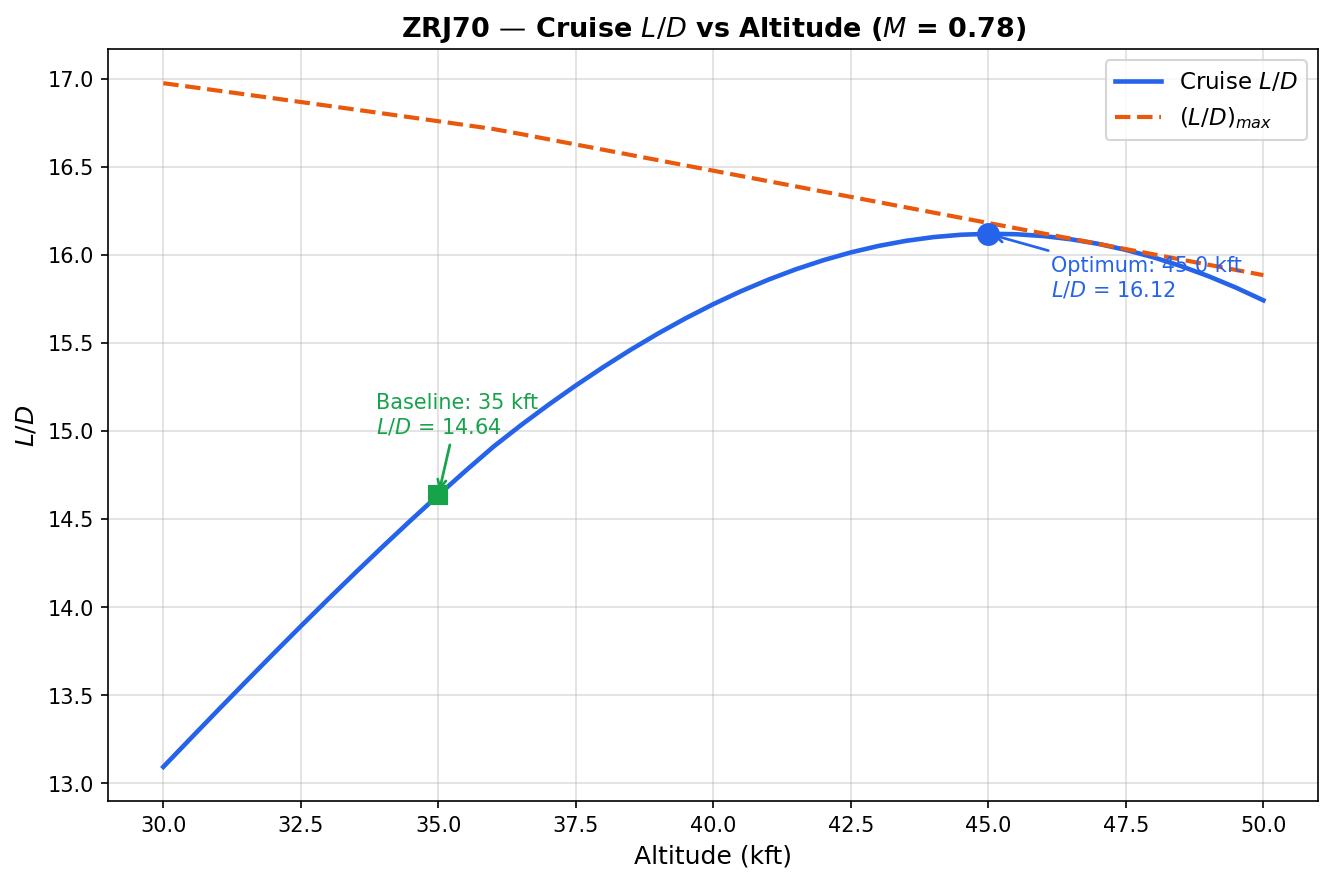
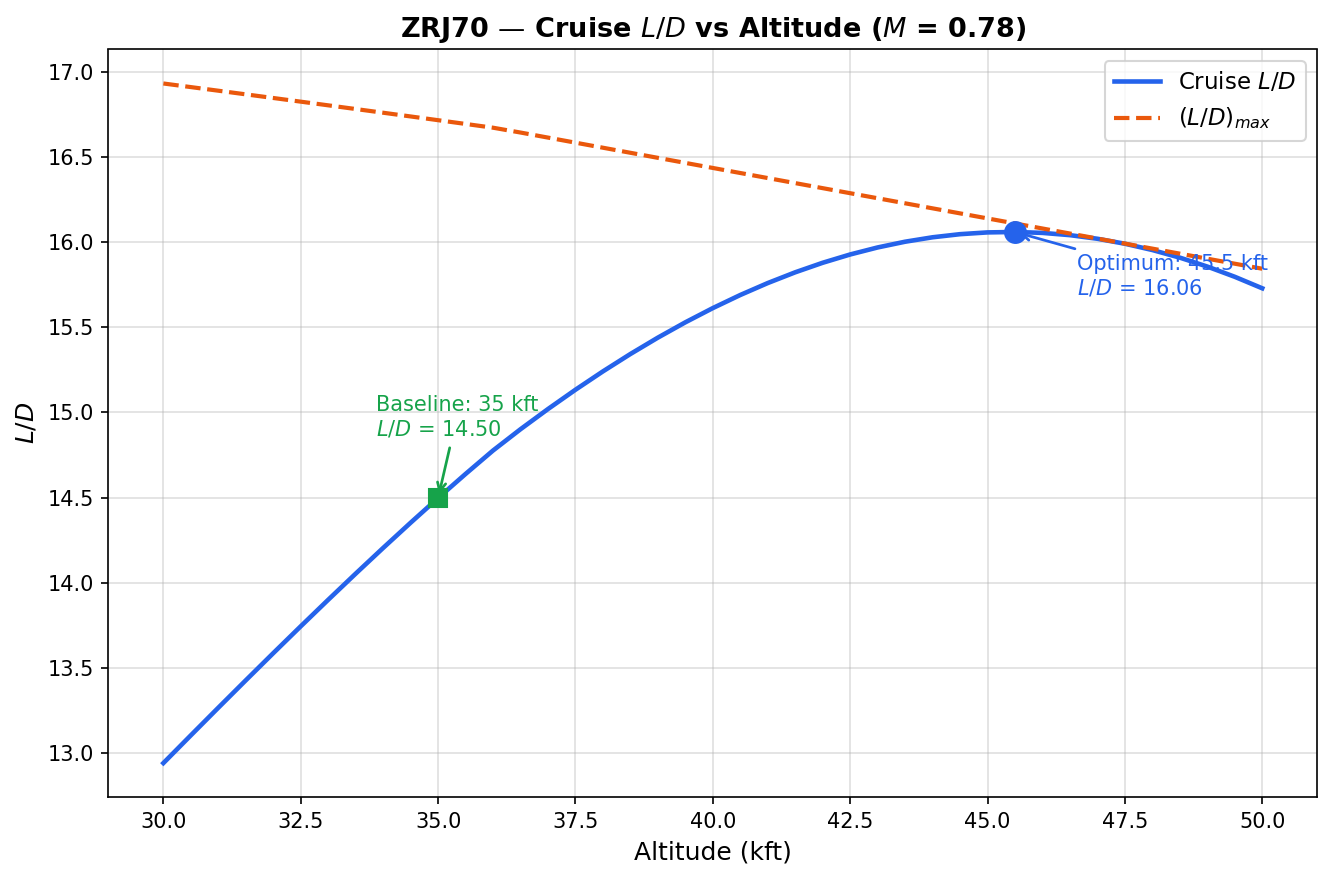
Update ZRJ MTOW values and regenerate outputs

diff --git a/data/ZRJ100.py b/data/ZRJ100.py
@@ -28,7 +28,7 @@ AIRCRAFT = {
     "fuse_length": 110.2,         # ft, fuselage length
 
     # --- Weights ---
-    "MTOW": 93255.0,              # lbs
+    "MTOW": 92484.0,              # lbs
 
     # --- Horizontal tail (T-tail) ---
     "S_htail": 276.92,            # ft^2, htail reference area

diff --git a/data/ZRJ70.py b/data/ZRJ70.py
@@ -28,7 +28,7 @@ AIRCRAFT = {
     "fuse_length": 96.7,          # ft, fuselage length
 
     # --- Weights ---
-    "MTOW": 85015.0,              # lbs
+    "MTOW": 84059.0,              # lbs
 
     # --- Horizontal tail (T-tail) ---
     "S_htail": 276.92,            # ft^2, htail reference area

diff --git a/README.md b/README.md
@@ -74,16 +74,16 @@ includes the Raymer equation number in a comment.
 | e (LE suction) | 0.727 | 0.727 | Eq. 12.57 — recommended |
 | K (LE suction) | 0.0483 | 0.0483 | Recommended for sizing |
 | (L/D)_max | 16.71 | 16.42 | With LE suction K |
-| L/D cruise | 14.58 | 14.83 | M 0.78 at 35,000 ft |
-| CL cruise | 0.3628 | 0.3980 | W_cruise / (q * S_ref) |
+| L/D cruise | 14.50 | 14.77 | M 0.78 at 35,000 ft |
+| CL cruise | 0.3587 | 0.3947 | W_cruise / (q * S_ref) |
 | CLa | 5.99 /rad | 5.99 /rad | At cruise Mach |
 | CLmax clean | 1.161 | 1.161 | Eq. 12.15 |
 | CLmax takeoff | 1.990 | 1.990 | Double slotted flaps, no slats |
 | CLmax landing | 2.624 | 2.624 | Double slotted flaps + slats |
-| MDD | 0.839 | 0.836 | Korn equation (Eq. 12.46) |
-| T_required | 5,344 lbs | 5,766 lbs | Total cruise thrust (T = D) |
-| T per engine | 2,672 lbs | 2,883 lbs | x2 engines |
-| T/W_cruise | 0.0683 | 0.0672 | Thrust-to-weight at cruise |
+| MDD | 0.840 | 0.836 | Korn equation (Eq. 12.46) |
+| T_required | 5,334 lbs | 5,760 lbs | Total cruise thrust (T = D) |
+| T per engine | 2,667 lbs | 2,880 lbs | x2 engines |
+| T/W_cruise | 0.0690 | 0.0677 | Thrust-to-weight at cruise |
 
 ## Stability & Control Values
 
@@ -99,8 +99,8 @@ XFLR5 results for improved accuracy.
 | Cm_0_ac | −0.0618 \* | −0.0618 \* | 3D correction of 2D cm_0 |
 | CLmax (clean) | 1.161 | 1.161 | Eq. 12.15 |
 | α_CLmax | 9.1° \* | 9.1° \* | Depends on α_0L |
-| CL_cruise | 0.3628 | 0.3980 | W_cruise / (q × S_ref) |
-| α_CL_cruise | 1.47° \* | 1.81° \* | Depends on α_0L |
+| CL_cruise | 0.3587 | 0.3947 | W_cruise / (q × S_ref) |
+| α_CL_cruise | 1.43° \* | 1.78° \* | Depends on α_0L |
 
 ### Horizontal Tail (AR = 3.94)
 
